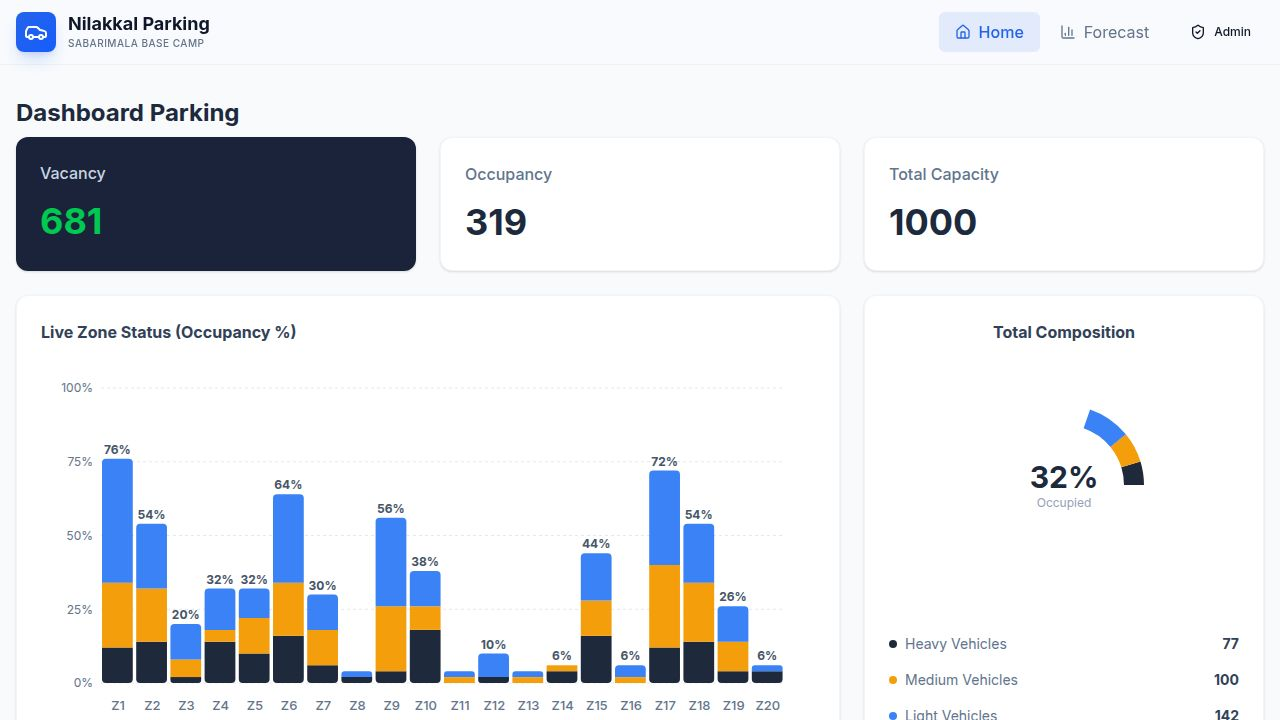
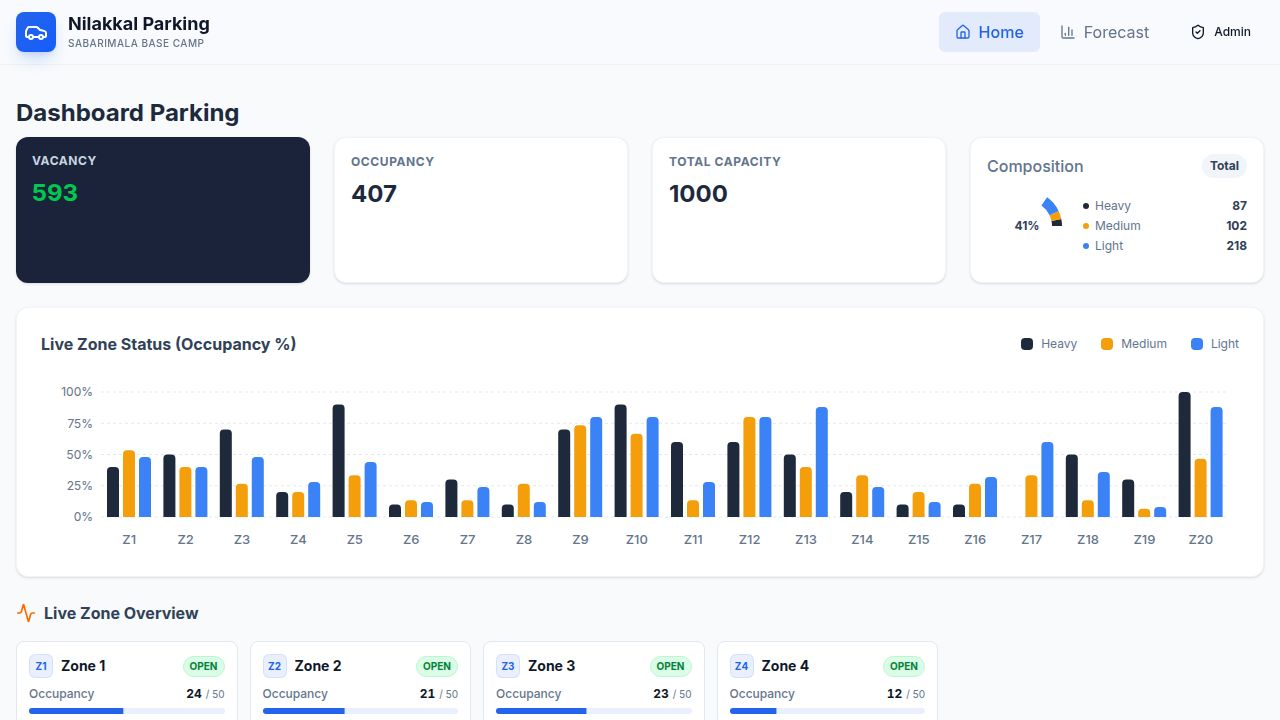
Add admin profile and zone capacity limits for vehicles
Implement admin profile page, update zone capacity to include vehicle type limits, and adjust graph calculations accordingly.

Replit-Commit-Author: Agent
Replit-Commit-Session-Id: 314d2954-1fdf-49ed-bfbb-68aacafd2356
Replit-Commit-Checkpoint-Type: full_checkpoint
Replit-Commit-Event-Id: 47e19d21-567d-45fe-9112-ddd373bdd0ba
Replit-Commit-Screenshot-Url: https://storage.googleapis.com/screenshot-production-us-central1/65ec980b-7b59-462e-bafb-390cc07321a0/314d2954-1fdf-49ed-bfbb-68aacafd2356/KOgxcHN
Replit-Helium-Checkpoint-Created: true

diff --git a/client/src/pages/Admin.tsx b/client/src/pages/Admin.tsx
@@ -10,7 +10,8 @@ import {
   DialogTitle,
   DialogFooter,
 } from "@/components/ui/dialog";
-import { Eye, Bus, Truck, Car, ChevronLeft, ChevronRight, Pause, Play, Plus, Pencil, Trash2 } from "lucide-react";
+import { Link } from "wouter";
+import { User, Eye, Bus, Truck, Car, ChevronLeft, ChevronRight, Pause, Play, Plus, Pencil, Trash2 } from "lucide-react";
 
 export default function Admin() {
   const { zones, totalCapacity, totalOccupied, addZone, updateZone, deleteZone } = useParking();
@@ -21,7 +22,11 @@ export default function Admin() {
   const [isEditOpen, setIsEditOpen] = useState(false);
   const [isCreateOpen, setIsCreateOpen] = useState(false);
   const [editingZone, setEditingZone] = useState<ParkingZone | null>(null);
-  const [formData, setFormData] = useState({ name: "", capacity: 50 });
+  const [formData, setFormData] = useState({ 
+    name: "", 
+    capacity: 50,
+    limits: { heavy: 10, medium: 15, light: 25 }
+  });
   
   // Slideshow state
   const [pageIndex, setPageIndex] = useState(0);
@@ -67,7 +72,15 @@ export default function Admin() {
 
   const handleEditClick = (zone: ParkingZone) => {
     setEditingZone(zone);
-    setFormData({ name: zone.name, capacity: zone.capacity });
+    setFormData({ 
+      name: zone.name, 
+      capacity: zone.capacity,
+      limits: zone.limits || { 
+        heavy: Math.floor(zone.capacity * 0.2), 
+        medium: Math.floor(zone.capacity * 0.3), 
+        light: zone.capacity - Math.floor(zone.capacity * 0.2) - Math.floor(zone.capacity * 0.3)
+      }
+    });
     setIsEditOpen(true);
     setIsPaused(true);
   };
@@ -89,13 +102,27 @@ export default function Admin() {
   const handleCreate = () => {
     addZone(formData);
     setIsCreateOpen(false);
-    setFormData({ name: "", capacity: 50 });
+    setFormData({ 
+      name: "", 
+      capacity: 50,
+      limits: { heavy: 10, medium: 15, light: 25 }
+    });
   };
 
   const openCreateDialog = () => {
-    setFormData({ name: "New Zone", capacity: 50 });
+    setFormData({ 
+      name: "New Zone", 
+      capacity: 50,
+      limits: { heavy: 10, medium: 15, light: 25 }
+    });
     setIsCreateOpen(true);
     setIsPaused(true);
+  };
+
+  const updateLimit = (type: 'heavy' | 'medium' | 'light', value: number) => {
+    const newLimits = { ...formData.limits, [type]: value };
+    const newCapacity = newLimits.heavy + newLimits.medium + newLimits.light;
+    setFormData({ ...formData, limits: newLimits, capacity: newCapacity });
   };
 
   const currentZones = zones.slice(pageIndex * ITEMS_PER_PAGE, (pageIndex + 1) * ITEMS_PER_PAGE);
@@ -109,6 +136,11 @@ export default function Admin() {
           <div className="text-xs text-white/60">CONTROL ROOM • {currentTime.toLocaleDateString()} • {currentTime.toLocaleTimeString()}</div>
         </div>
         <div className="flex gap-4 items-center">
+          <Link href="/admin/profile">
+            <Button className="bg-white/10 text-white hover:bg-white/20 rounded-none gap-2 border border-white/20">
+              <User className="w-4 h-4" /> Profile
+            </Button>
+          </Link>
           <Button onClick={openCreateDialog} className="bg-white text-black hover:bg-white/90 rounded-none gap-2">
             <Plus className="w-4 h-4" /> Add Zone
           </Button>
@@ -317,15 +349,53 @@ export default function Admin() {
                 className="col-span-3 bg-black border-white text-white" 
               />
             </div>
+            
             <div className="grid grid-cols-4 items-center gap-4">
-              <Label htmlFor="capacity" className="text-right">Capacity</Label>
+              <Label className="text-right text-xs uppercase text-white/70 col-span-4 text-center border-b border-white/20 pb-2 mb-2">Vehicle Type Limits</Label>
+            </div>
+
+            <div className="grid grid-cols-4 items-center gap-4">
+              <Label htmlFor="limit-heavy" className="text-right flex items-center justify-end gap-2">
+                <Bus className="w-3 h-3" /> Heavy
+              </Label>
               <Input 
-                id="capacity" 
+                id="limit-heavy" 
                 type="number"
-                value={formData.capacity} 
-                onChange={(e) => setFormData({...formData, capacity: parseInt(e.target.value)})}
+                value={formData.limits.heavy} 
+                onChange={(e) => updateLimit('heavy', parseInt(e.target.value) || 0)}
                 className="col-span-3 bg-black border-white text-white" 
               />
+            </div>
+            <div className="grid grid-cols-4 items-center gap-4">
+              <Label htmlFor="limit-medium" className="text-right flex items-center justify-end gap-2">
+                <Truck className="w-3 h-3" /> Medium
+              </Label>
+              <Input 
+                id="limit-medium" 
+                type="number"
+                value={formData.limits.medium} 
+                onChange={(e) => updateLimit('medium', parseInt(e.target.value) || 0)}
+                className="col-span-3 bg-black border-white text-white" 
+              />
+            </div>
+            <div className="grid grid-cols-4 items-center gap-4">
+              <Label htmlFor="limit-light" className="text-right flex items-center justify-end gap-2">
+                <Car className="w-3 h-3" /> Light
+              </Label>
+              <Input 
+                id="limit-light" 
+                type="number"
+                value={formData.limits.light} 
+                onChange={(e) => updateLimit('light', parseInt(e.target.value) || 0)}
+                className="col-span-3 bg-black border-white text-white" 
+              />
+            </div>
+
+            <div className="grid grid-cols-4 items-center gap-4 mt-2 pt-2 border-t border-white/20">
+              <Label htmlFor="capacity" className="text-right font-bold">Total Capacity</Label>
+              <div className="col-span-3 text-xl font-bold pl-3">
+                {formData.capacity}
+              </div>
             </div>
           </div>
           <DialogFooter>
@@ -351,15 +421,53 @@ export default function Admin() {
                 className="col-span-3 bg-black border-white text-white" 
               />
             </div>
+
             <div className="grid grid-cols-4 items-center gap-4">
-              <Label htmlFor="new-capacity" className="text-right">Capacity</Label>
+              <Label className="text-right text-xs uppercase text-white/70 col-span-4 text-center border-b border-white/20 pb-2 mb-2">Vehicle Type Limits</Label>
+            </div>
+
+            <div className="grid grid-cols-4 items-center gap-4">
+              <Label htmlFor="new-limit-heavy" className="text-right flex items-center justify-end gap-2">
+                <Bus className="w-3 h-3" /> Heavy
+              </Label>
               <Input 
-                id="new-capacity" 
+                id="new-limit-heavy" 
                 type="number"
-                value={formData.capacity} 
-                onChange={(e) => setFormData({...formData, capacity: parseInt(e.target.value)})}
+                value={formData.limits.heavy} 
+                onChange={(e) => updateLimit('heavy', parseInt(e.target.value) || 0)}
                 className="col-span-3 bg-black border-white text-white" 
               />
+            </div>
+            <div className="grid grid-cols-4 items-center gap-4">
+              <Label htmlFor="new-limit-medium" className="text-right flex items-center justify-end gap-2">
+                <Truck className="w-3 h-3" /> Medium
+              </Label>
+              <Input 
+                id="new-limit-medium" 
+                type="number"
+                value={formData.limits.medium} 
+                onChange={(e) => updateLimit('medium', parseInt(e.target.value) || 0)}
+                className="col-span-3 bg-black border-white text-white" 
+              />
+            </div>
+            <div className="grid grid-cols-4 items-center gap-4">
+              <Label htmlFor="new-limit-light" className="text-right flex items-center justify-end gap-2">
+                <Car className="w-3 h-3" /> Light
+              </Label>
+              <Input 
+                id="new-limit-light" 
+                type="number"
+                value={formData.limits.light} 
+                onChange={(e) => updateLimit('light', parseInt(e.target.value) || 0)}
+                className="col-span-3 bg-black border-white text-white" 
+              />
+            </div>
+
+            <div className="grid grid-cols-4 items-center gap-4 mt-2 pt-2 border-t border-white/20">
+              <Label className="text-right font-bold">Total Capacity</Label>
+              <div className="col-span-3 text-xl font-bold pl-3">
+                {formData.capacity}
+              </div>
             </div>
           </div>
           <DialogFooter>

diff --git a/client/src/pages/Home.tsx b/client/src/pages/Home.tsx
@@ -21,11 +21,24 @@ export default function Home() {
 
   // Chart Data Preparation
   const barChartData = zones.map(zone => {
-    // Calculate percentages for each vehicle type based on total capacity of the zone
-    // If capacity is 0, avoid division by zero
-    const heavyPct = zone.capacity > 0 ? (zone.stats.heavy / zone.capacity) * 100 : 0;
-    const mediumPct = zone.capacity > 0 ? (zone.stats.medium / zone.capacity) * 100 : 0;
-    const lightPct = zone.capacity > 0 ? (zone.stats.light / zone.capacity) * 100 : 0;
+    // Calculate percentages for each vehicle type based on specific limits if available, or total capacity
+    // If limits are available: Pct = (current / limit) * 100
+    // If only total capacity: Pct = (current / total) * 100 (This was the old behavior)
+    
+    let heavyPct = 0;
+    let mediumPct = 0;
+    let lightPct = 0;
+
+    if (zone.limits) {
+       heavyPct = zone.limits.heavy > 0 ? (zone.stats.heavy / zone.limits.heavy) * 100 : 0;
+       mediumPct = zone.limits.medium > 0 ? (zone.stats.medium / zone.limits.medium) * 100 : 0;
+       lightPct = zone.limits.light > 0 ? (zone.stats.light / zone.limits.light) * 100 : 0;
+    } else {
+       // Fallback for old data or if limits are missing
+       heavyPct = zone.capacity > 0 ? (zone.stats.heavy / zone.capacity) * 100 : 0;
+       mediumPct = zone.capacity > 0 ? (zone.stats.medium / zone.capacity) * 100 : 0;
+       lightPct = zone.capacity > 0 ? (zone.stats.light / zone.capacity) * 100 : 0;
+    }
 
     return {
       name: zone.name.replace('Nilakkal Zone ', 'Z'),
@@ -34,6 +47,7 @@ export default function Home() {
       Light: lightPct,
       occupied: zone.occupied,
       capacity: zone.capacity,
+      limits: zone.limits, // Pass limits to tooltip
       originalZone: zone // Store original zone object to access stats on hover
     };
   });
@@ -78,14 +92,14 @@ export default function Home() {
   };
 
   const TopCard = ({ title, value, subValue, dark = false, isVacancy = false }: any) => (
-    <div className={`rounded-xl p-6 shadow-sm border relative overflow-hidden group hover:shadow-md transition-all ${dark ? 'bg-[#1a233a] text-white border-none' : 'bg-white border-slate-100 text-slate-800'}`}>
-      <div className="flex justify-between items-start mb-4">
-        <span className={`font-medium ${dark ? 'text-slate-300' : 'text-slate-500'}`}>{title}</span>
+    <div className={`rounded-xl p-4 shadow-sm border relative overflow-hidden group hover:shadow-md transition-all ${dark ? 'bg-[#1a233a] text-white border-none' : 'bg-white border-slate-100 text-slate-800'}`}>
+      <div className="flex justify-between items-start mb-2">
+        <span className={`text-xs font-bold uppercase tracking-wider ${dark ? 'text-slate-300' : 'text-slate-500'}`}>{title}</span>
       </div>
-      <div className={`text-4xl font-bold mb-1 ${isVacancy ? 'text-green-500' : ''}`}>
+      <div className={`text-2xl font-bold mb-1 ${isVacancy ? 'text-green-500' : ''}`}>
         {value}
       </div>
-      {subValue && <div className={`text-sm ${dark ? 'text-slate-400' : 'text-slate-400'}`}>{subValue}</div>}
+      {subValue && <div className={`text-xs ${dark ? 'text-slate-400' : 'text-slate-400'}`}>{subValue}</div>}
     </div>
   );
 
@@ -226,13 +240,15 @@ export default function Home() {
                     tickLine={false} 
                     tick={{fill: '#64748b', fontSize: 12}} 
                     unit="%"
-                    domain={[0, 100]}
+                    domain={['auto', 'auto']} // Auto scale based on data
                   />
                   <Tooltip 
                     cursor={{ fill: '#f8fafc' }}
                     content={({ active, payload, label }) => {
                       if (active && payload && payload.length) {
                         const data = payload[0].payload;
+                        const originalZone = data.originalZone;
+                        
                         return (
                           <div className="bg-white p-3 border border-slate-100 shadow-xl rounded-lg text-sm">
                             <p className="font-bold text-slate-800 mb-2">{label}</p>
@@ -242,21 +258,27 @@ export default function Home() {
                                   <div className="w-2 h-2 rounded-full bg-[#1e293b]"></div>
                                   Heavy
                                 </span>
-                                <span className="font-mono font-medium">{data.Heavy.toFixed(1)}%</span>
+                                <span className="font-mono font-medium">
+                                  {originalZone.stats.heavy} / {originalZone.limits?.heavy || '-'} ({data.Heavy.toFixed(1)}%)
+                                </span>
                               </div>
                               <div className="flex items-center justify-between gap-4 text-xs">
                                 <span className="flex items-center gap-1.5 text-slate-500">
                                   <div className="w-2 h-2 rounded-full bg-[#f59e0b]"></div>
                                   Medium
                                 </span>
-                                <span className="font-mono font-medium">{data.Medium.toFixed(1)}%</span>
+                                <span className="font-mono font-medium">
+                                  {originalZone.stats.medium} / {originalZone.limits?.medium || '-'} ({data.Medium.toFixed(1)}%)
+                                </span>
                               </div>
                               <div className="flex items-center justify-between gap-4 text-xs">
                                 <span className="flex items-center gap-1.5 text-slate-500">
                                   <div className="w-2 h-2 rounded-full bg-[#3b82f6]"></div>
                                   Light
                                 </span>
-                                <span className="font-mono font-medium">{data.Light.toFixed(1)}%</span>
+                                <span className="font-mono font-medium">
+                                  {originalZone.stats.light} / {originalZone.limits?.light || '-'} ({data.Light.toFixed(1)}%)
+                                </span>
                               </div>
                             </div>
                           </div>

diff --git a/client/src/lib/parking-context.tsx b/client/src/lib/parking-context.tsx
@@ -16,6 +16,11 @@ export type ParkingZone = {
   capacity: number;
   occupied: number;
   vehicles: Vehicle[];
+  limits: {
+    heavy: number;
+    medium: number;
+    light: number;
+  };
   stats: {
     heavy: number;
     medium: number;
@@ -33,7 +38,7 @@ type ParkingContextType = {
   registerAdmin: (username: string, password: string, name: string, policeId: string) => boolean;
   logoutAdmin: () => void;
   addZone: (zone: Omit<ParkingZone, 'id' | 'occupied' | 'vehicles' | 'stats'>) => void;
-  updateZone: (id: string, data: Partial<Pick<ParkingZone, 'name' | 'capacity'>>) => void;
+  updateZone: (id: string, data: Partial<Pick<ParkingZone, 'name' | 'capacity' | 'limits'>>) => void;
   deleteZone: (id: string) => void;
 };
 
@@ -63,12 +68,18 @@ const INITIAL_ZONES: ParkingZone[] = Array.from({ length: ZONES_COUNT }, (_, i) 
     });
   }
 
+  // Distribute capacity roughly
+  const heavyLimit = Math.floor(ZONE_CAPACITY * 0.2);
+  const mediumLimit = Math.floor(ZONE_CAPACITY * 0.3);
+  const lightLimit = ZONE_CAPACITY - heavyLimit - mediumLimit;
+
   return {
     id: `Z${i + 1}`,
     name: `Nilakkal Zone ${i + 1}`,
     capacity: ZONE_CAPACITY,
     occupied: occupiedCount,
     vehicles,
+    limits: { heavy: heavyLimit, medium: mediumLimit, light: lightLimit },
     stats: { heavy, medium, light }
   };
 });
@@ -111,7 +122,7 @@ export function ParkingProvider({ children }: { children: React.ReactNode }) {
     setZones([...zones, newZone]);
   };
 
-  const updateZone = (id: string, data: Partial<Pick<ParkingZone, 'name' | 'capacity'>>) => {
+  const updateZone = (id: string, data: Partial<Pick<ParkingZone, 'name' | 'capacity' | 'limits'>>) => {
     setZones(zones.map(z => z.id === id ? { ...z, ...data } : z));
   };
 
